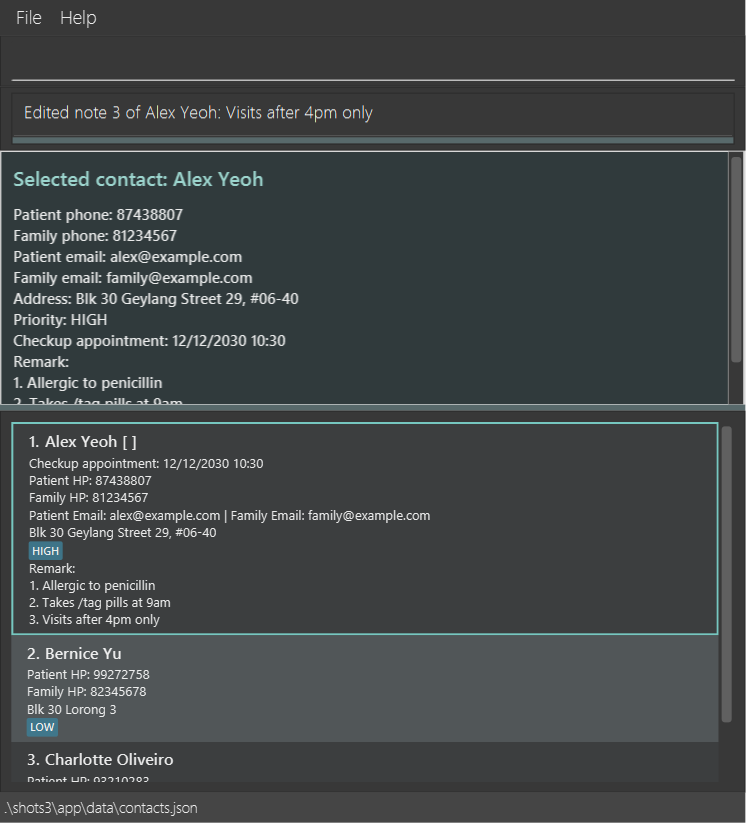
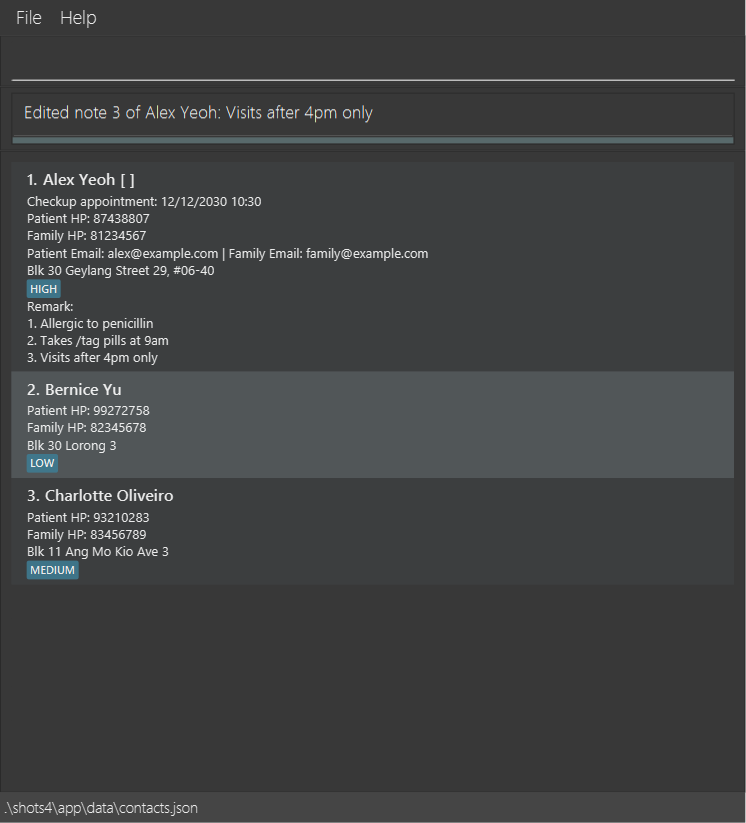
Update the remark screenshot for the closed panel

Changed region(s): [[0.0, 0.1823, 1.0, 1.0], [0.185, 0.9721, 0.2158, 1.0]]

diff --git a/docs/UserGuide.md b/docs/UserGuide.md
@@ -426,9 +426,9 @@ Examples:
 * `remark 1 /delete 1` deletes the 1st person's 1st note, so `Visits after 4pm only` becomes note 1.
 * `remark 3 /clear` deletes all notes of the 3rd person.
 
-After `view 1` and `remark 1 /edit 3 Visits after 4pm only`, the card and the details panel both show the numbered notes:
+After `remark 1 /edit 3 Visits after 4pm only`, the person's card shows the numbered notes. Use `view 1` to see them in the details panel as well:
 
-![The contact card and details panel after editing a note](images/remarkResult.png)
+![The contact card after editing a note](images/remarkResult.png)
 
 **Common errors:**
 
